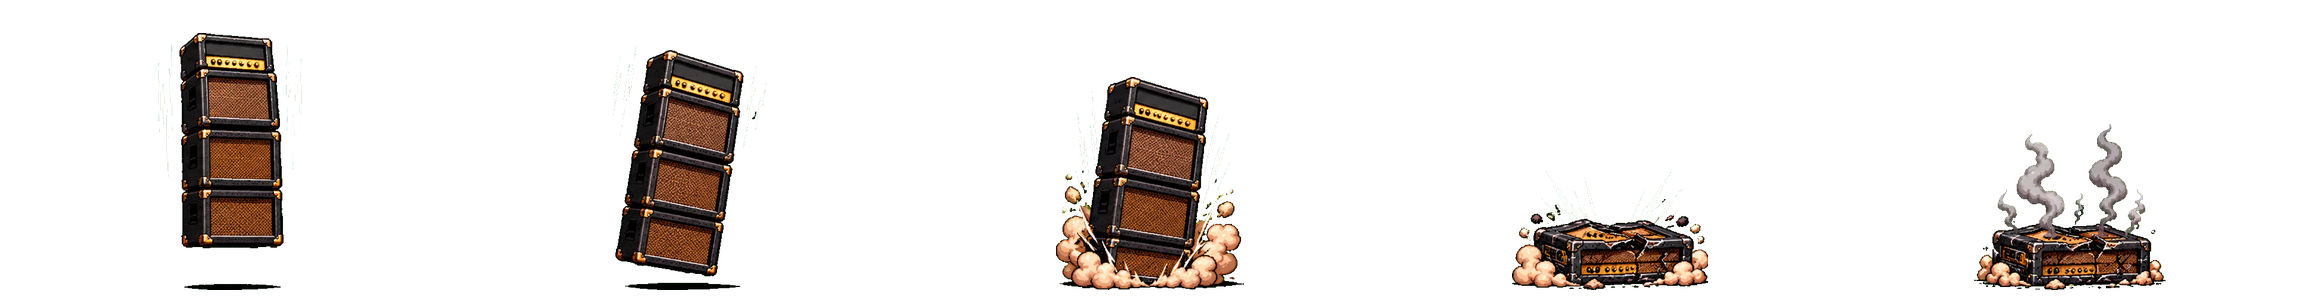
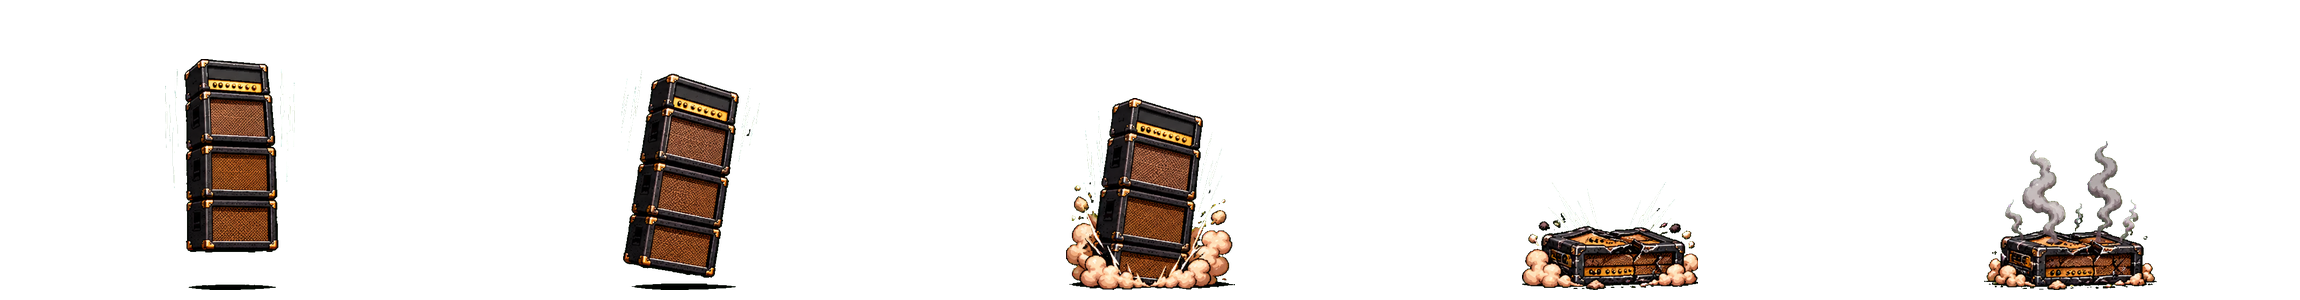
Zakk maior (cabeça 25% maior que a do Eddie) e proporcional em todas as poses

diff --git a/game.js b/game.js
@@ -5,6 +5,8 @@ const W = 960, H = 540, FLOOR = 472; // linha do piso do palco
 const FW = 460, FH = 300, AX = 220, AY = 290;
 // SC: tamanho dos lutadores em relação ao cenário; caixas de acerto, efeitos e pulo acompanham
 const SC = 0.8, px = v => Math.round(v * SC);
+// escala de um lutador (CHARS.<id>.size: o Zakk é ~31% maior); usada também nos efeitos e objetos que ele solta
+const scOf = f => SC * ((f && f.char && f.char.size) || 1);
 const BIG_T = 64; // quadros do título gigante do super (some antes do raio)
 const MIN_GAP = px(125), ROUND_TIME = 99, WALL = px(85);
 const JUMP_V = -15.2, GRAV = 0.85, JUMP_VX = 3.6;
@@ -373,7 +375,8 @@ CHARS.zakk = {
   name: 'ZAKK', dir: 'zakk', hp: 1100, walkF: 2.7, walkB: 2.25,
   anims: ZAKK_ANIMS, moves: ZAKK_MOVES, powers: ZAKK_POWERS, specials: ZAKK_SPECIALS, cpu: zakkCpu,
   jumpkick: JUMPKICK, bigTitle: 'NO MORE TEARS', bigSize: 95, blurb: 'Black Label',
-  stage: 'zakk', vicRate: 28, // a vitória do Zakk é uma sequência de poses (grito, cerveja, chifrinhos): ~0,5 s cada
+  stage: 'zakk', vicRate: 28, size: 1.31, // size: medido pelo rosto, a cabeça do Zakk fica 25% maior que a do Eddie (sem aumento ela tem ~95% da dele); vale para corpo, efeitos, caixa de dano e alcance
+  // a vitória do Zakk é uma sequência de poses (grito, cerveja, chifrinhos): ~0,5 s cada
 };
 for (const [id, c] of Object.entries(CHARS)) c.id = id;
 
@@ -386,17 +389,17 @@ const BIRA_HIT = { dmg: 30, hitstun: 50, blockstun: 50, push: 0, chip: 30, word:
 // PALCOS (escolhidos depois dos lutadores). Palco sem imagem não aparece na escolha.
 // Na vitória, qualquer palco dá lugar ao Templo dos Deuses da Guitarra (TEMPLE), com os holofotes no vencedor.
 const STAGES = [
-  { id: 'eddie',    name: "EDDIE'S STAGE",  tag: 'Arena rock',         file: 'assets/stages/palco-eddie.jpg?v=7ceb2c2' },
-  { id: 'slash',    name: 'SUNSET STRIP',   tag: 'Rock bar',           file: 'assets/stages/palco-slash.jpg?v=7ceb2c2' },
-  { id: 'stairway', name: 'STAIRWAY HILL',  tag: 'Airship at dusk',    file: 'assets/stages/cenario-dirigivel.jpg?v=7ceb2c2' },
-  { id: 'pig',      name: 'POWER STATION',  tag: 'Flying pig',         file: 'assets/stages/cenario-usina-porco.jpg?v=7ceb2c2' },
-  { id: 'rooftop',  name: 'LONDON ROOFTOP', tag: 'The last gig',       file: 'assets/stages/cenario-telhado-londres.jpg?v=7ceb2c2' },
-  { id: 'voltage',  name: 'HIGH VOLTAGE',   tag: 'Thunder road',       file: 'assets/stages/cenario-alta-voltagem.jpg?v=7ceb2c2' },
-  { id: 'stadium',  name: "STADIUM '85",    tag: 'Live for the world', file: 'assets/stages/cenario-estadio.jpg?v=7ceb2c2' },
+  { id: 'eddie',    name: "EDDIE'S STAGE",  tag: 'Arena rock',         file: 'assets/stages/palco-eddie.jpg?v=3f20983' },
+  { id: 'slash',    name: 'SUNSET STRIP',   tag: 'Rock bar',           file: 'assets/stages/palco-slash.jpg?v=3f20983' },
+  { id: 'stairway', name: 'STAIRWAY HILL',  tag: 'Airship at dusk',    file: 'assets/stages/cenario-dirigivel.jpg?v=3f20983' },
+  { id: 'pig',      name: 'POWER STATION',  tag: 'Flying pig',         file: 'assets/stages/cenario-usina-porco.jpg?v=3f20983' },
+  { id: 'rooftop',  name: 'LONDON ROOFTOP', tag: 'The last gig',       file: 'assets/stages/cenario-telhado-londres.jpg?v=3f20983' },
+  { id: 'voltage',  name: 'HIGH VOLTAGE',   tag: 'Thunder road',       file: 'assets/stages/cenario-alta-voltagem.jpg?v=3f20983' },
+  { id: 'stadium',  name: "STADIUM '85",    tag: 'Live for the world', file: 'assets/stages/cenario-estadio.jpg?v=3f20983' },
 ];
 const stageById = id => STAGES.find(st => st.id === id);
 // templo da vitória: imagem e posição (em 960x540) e cor dos holofotes do teto
-const TEMPLE = { file: 'assets/stages/templo-vitoria.jpg?v=7ceb2c2', lamps: [[106, 30, 0xffd27a], [184, 36, 0xffe9a8], [781, 36, 0xffe9a8], [845, 32, 0xffd27a]] };
+const TEMPLE = { file: 'assets/stages/templo-vitoria.jpg?v=3f20983', lamps: [[106, 30, 0xffd27a], [184, 36, 0xffe9a8], [781, 36, 0xffe9a8], [845, 32, 0xffd27a]] };
 
 // reações cômicas (folha react do lutador que apanhou): quadros e duração em quadros de jogo; quem está na piada fica invencível
 const GAGS = {
@@ -464,11 +467,13 @@ class Fighter {
   canBlock() { return this.free || this.state === 'block'; }
   hurtbox() {
     const hb = this.state === 'crouch' || (this.state === 'block' && this.holdDown) ? (this.char.hurtCrouch || HURT_CROUCH) : (this.char.hurt || HURT);
-    return { x: this.x + hb.x * SC, y: FLOOR + this.y + hb.y * SC, w: hb.w * SC, h: hb.h * SC };
+    const k = SC * (this.char.size || 1);
+    return { x: this.x + hb.x * k, y: FLOOR + this.y + hb.y * k, w: hb.w * k, h: hb.h * k };
   }
   boxFrom(h) {
-    const x = this.facing > 0 ? this.x + h.x * SC : this.x - (h.x + h.w) * SC;
-    return { x, y: FLOOR + this.y + h.y * SC, w: h.w * SC, h: h.h * SC };
+    const k = SC * (this.char.size || 1);
+    const x = this.facing > 0 ? this.x + h.x * k : this.x - (h.x + h.w) * k;
+    return { x, y: FLOOR + this.y + h.y * k, w: h.w * k, h: h.h * k };
   }
   moveStep() {
     const d = this.m.dur; let acc = 0;
@@ -519,10 +524,10 @@ class Boot extends Phaser.Scene {
     this.load.image('stage', STAGES[0].file); // fundo da tela de escolha
     this.load.image('temple', TEMPLE.file);
     // capa: logo dourado do Rock n' Bira e as canecas de chopp do brinde
-    this.load.image('logo_bira', `assets/ui/logo-rocknbira-gold.png?v=7ceb2c2`);
+    this.load.image('logo_bira', `assets/ui/logo-rocknbira-gold.png?v=3f20983`);
     this.load.image('title_bg', `assets/ui/festa.jpg`); // festa no bar, fundo da capa
-    this.load.spritesheet('mug', `assets/ui/mug.png?v=7ceb2c2`, { frameWidth: 300, frameHeight: 300 });
-    this.load.spritesheet('splash', `assets/ui/splash.png?v=7ceb2c2`, { frameWidth: 300, frameHeight: 300 });
+    this.load.spritesheet('mug', `assets/ui/mug.png?v=3f20983`, { frameWidth: 300, frameHeight: 300 });
+    this.load.spritesheet('splash', `assets/ui/splash.png?v=3f20983`, { frameWidth: 300, frameHeight: 300 });
     for (const st of STAGES) {
       this.load.image(`stage_${st.id}`, st.file);
     }
@@ -531,7 +536,7 @@ class Boot extends Phaser.Scene {
       for (const [n, count] of Object.entries(c.anims)) {
         const key = `${c.dir}_${n}`;
         FRAMES[key] = count;
-        this.load.spritesheet(key, `assets/${c.dir}/${n}.png?v=7ceb2c2`, { frameWidth: FW, frameHeight: FH });
+        this.load.spritesheet(key, `assets/${c.dir}/${n}.png?v=3f20983`, { frameWidth: FW, frameHeight: FH });
       }
     }
   }
@@ -915,7 +920,7 @@ class Select extends Phaser.Scene {
     [0, 1].forEach(s => {
       const c = CHARS[this.ids[this.cur[s]]];
       const key = texKey(this, c, 'idle');
-      if (this.big[s].texture.key !== key) this.big[s].setTexture(key);
+      if (this.big[s].texture.key !== key) this.big[s].setTexture(key).setScale(SC * 1.05 * (c.size || 1));
       this.big[s].setTint(s === 1 && sameLook ? P2_TINT : 0xffffff).setAlpha(this.lock[s] ? 1 : 0.75);
       this.names[s].setText(c.name); chrome(this.names[s]);
       this.names[s].setShadow(0, 0, s === 0 ? '#ff3d6e' : '#3cf0ff', 16, true, false);
@@ -1300,7 +1305,7 @@ class Fight extends Phaser.Scene {
     } else if (f.state === 'land') {
       if (f.t >= 5) { f.state = 'idle'; f.t = 0; f.facing = op.x >= f.x ? 1 : -1; }
     } else if (f.state === 'attack') {
-      const m = f.m;
+      const m = f.m, SC = scOf(f), px = v => Math.round(v * SC); // efeitos na escala de quem golpeia
       if (m.spawn !== undefined && !f.spawned && f.moveStep() >= m.spawn) { f.spawned = true; this.spawnProjectile(f); }
       if (m.bombs !== undefined && !f.spawned && f.moveStep() >= m.bombs) { f.spawned = true; this.spawnBombs(f, op); }
       const st = f.moveStep();
@@ -1361,16 +1366,16 @@ class Fight extends Phaser.Scene {
   separate(a, b) {
     if (a.state === 'ko' || b.state === 'ko' || a.y < -px(120) || b.y < -px(120)) return;
     if ([a, b].some(f => f.state === 'gag' && f.gag.k === 'flat')) return; // o carro passa por cima de quem virou panqueca
-    const d = b.x - a.x;
-    if (Math.abs(d) < MIN_GAP) {
-      const push = (MIN_GAP - Math.abs(d)) / 2 * (d >= 0 ? 1 : -1);
+    const d = b.x - a.x, G = MIN_GAP * ((a.char.size || 1) + (b.char.size || 1)) / 2; // lutador maior ocupa mais espaço
+    if (Math.abs(d) < G) {
+      const push = (G - Math.abs(d)) / 2 * (d >= 0 ? 1 : -1);
       a.x = Phaser.Math.Clamp(a.x - push, WALL, W - WALL);
       b.x = Phaser.Math.Clamp(b.x + push, WALL, W - WALL);
       // encurralado na parede: quem está livre leva o resto do empurrão, para nunca ficarem um dentro do outro
       const dir = d >= 0 ? 1 : -1;
-      if (Math.abs(b.x - a.x) < MIN_GAP) {
-        if (a.x <= WALL || a.x >= W - WALL) b.x = Phaser.Math.Clamp(a.x + dir * MIN_GAP, WALL, W - WALL);
-        else a.x = Phaser.Math.Clamp(b.x - dir * MIN_GAP, WALL, W - WALL);
+      if (Math.abs(b.x - a.x) < G) {
+        if (a.x <= WALL || a.x >= W - WALL) b.x = Phaser.Math.Clamp(a.x + dir * G, WALL, W - WALL);
+        else a.x = Phaser.Math.Clamp(b.x - dir * G, WALL, W - WALL);
       }
     }
   }
@@ -1412,7 +1417,7 @@ class Fight extends Phaser.Scene {
     def.hp -= m.dmg; def.move = null; def.jk = null;
     if (!(am && am.super)) { att.meter = Math.min(100, att.meter + m.dmg * 0.3); def.meter = Math.min(100, def.meter + m.dmg * 0.15); }
     const hitFx = am && am.hitFx ? this.tk(att.char, am.hitFx) : null;
-    if (hitFx && hitFx !== '__MISSING') this.addFx(am.hitFx, def.x, FLOOR + def.y - px(160), { rate: 2, scale: 0.8 * SC }, att.char);
+    if (hitFx && hitFx !== '__MISSING') this.addFx(am.hitFx, def.x, FLOOR + def.y - px(160), { rate: 2, scale: 0.8 * scOf(att) }, att.char);
     else this.spark(sx, sy, 0xffe14a, att.char);
     if (m.shake) this.cameras.main.shake(120, m.shake);
     if (m.dmg >= 75) this.addFx('fx_notes', def.x, FLOOR + def.y - px(250), { vy: -1.2, rate: 5, scale: 0.9 * SC }, att.char);
@@ -1432,6 +1437,7 @@ class Fight extends Phaser.Scene {
 
   // raio do super: textura do golpe (m.tex), núcleo branco e arcos elétricos desenhados por cima
   updateBeam(f, on) {
+    const SC = scOf(f), px = v => Math.round(v * SC); // efeitos na escala de quem soltou (o Zakk é maior)
     const g = this.beamG;
     if (!on) {
       if (f.beam) { f.beam.destroy(); f.beamGlow.destroy(); f.beam = f.beamGlow = null; g.clear(); }
@@ -1530,11 +1536,12 @@ class Fight extends Phaser.Scene {
 
   // PROJÉTIL (Eruption): anda reto; dois projéteis se anulam
   spawnProjectile(f) {
+    const SC = scOf(f), px = v => Math.round(v * SC); // efeitos na escala de quem soltou (o Zakk é maior)
     const m = f.m, x = f.x + f.facing * px(125), y = FLOOR - px(m.projY || 145);
     const spr = this.add.sprite(x, y, this.tk(f.char, m.tex || 'projectile'), 0).setDepth(20).setFlipX(f.facing < 0).setScale((m.projScale || 1.35) * SC);
     if (f.tint !== 0xffffff) spr.setTint(f.tint);
     const sp = m.speed || [5, 8];
-    const pr = { owner: f, x, y, dir: f.facing, v: f.projFast ? sp[1] : sp[0], spr, t: 0, payload: m.payload || PROJ, boomerang: !!m.boomerang, box: m.projBox || [72, 48] };
+    const pr = { owner: f, x, y, dir: f.facing, v: f.projFast ? sp[1] : sp[0], spr, t: 0, payload: m.payload || PROJ, boomerang: !!m.boomerang, box: (m.projBox || [72, 48]).map(v => v * SC / 0.8) };
     if (pr.boomerang) { pr.v0 = pr.v; pr.acc = -pr.v / 150; } // vai longe, freia e volta para a mão
     f.proj = pr; this.projs.push(pr);
   }
@@ -1560,6 +1567,7 @@ class Fight extends Phaser.Scene {
 
   // ENXAME (Bumblebee): saem da guitarra e perseguem o oponente
   spawnSwarm(f) {
+    const SC = scOf(f), px = v => Math.round(v * SC); // efeitos na escala de quem soltou (o Zakk é maior)
     const m = f.m, n = m.count || 6, key = this.tk(f.char, m.tex || 'fx_bee');
     for (let i = 0; i < n; i++) {
       const x = f.x + f.facing * px(m.ground ? 90 + i * 35 : 110), y = m.ground ? FLOOR - px(22) : FLOOR - px(170) + (i - (n - 1) / 2) * 12;
@@ -1621,6 +1629,7 @@ class Fight extends Phaser.Scene {
 
   // AJUDANTE (Jump!): cai do céu onde o oponente está; sombra no chão avisa. Folha: 0-1 caindo, 2 impacto, 3 pose, 4 saindo.
   spawnDLR(f, op) {
+    const SC = scOf(f), px = v => Math.round(v * SC); // efeitos na escala de quem soltou (o Zakk é maior)
     const m = f.m, x = Phaser.Math.Clamp(op.x, 90, W - 90);
     const spr = this.add.sprite(x, FLOOR - 560, this.tk(f.char, m.tex || 'dlr'), 0).setDepth(22).setFlipX(f.facing < 0).setScale(SC)
       .setOrigin((f.facing > 0 ? AX : FW - AX) / FW, AY / FH);
@@ -1661,6 +1670,7 @@ class Fight extends Phaser.Scene {
   // DESLIZANDO (You Could Be Mine): o ajudante entra pela borda de trás e cruza a tela rente ao chão.
   // Folha: 0 correndo, 1 se jogando, 2-3 deslizando, 4 pose no fim. Golpe baixo (só defende agachado).
   spawnSlider(f) {
+    const SC = scOf(f), px = v => Math.round(v * SC); // efeitos na escala de quem soltou (o Zakk é maior)
     const m = f.m, dir = f.facing, x = dir > 0 ? -60 : W + 60;
     const spr = this.add.sprite(x, FLOOR, this.tk(f.char, m.tex || 'axl'), 0).setDepth(22).setFlipX(dir < 0).setScale(SC)
       .setOrigin((dir > 0 ? AX : FW - AX) / FW, AY / FH);
@@ -1777,11 +1787,11 @@ class Fight extends Phaser.Scene {
 
   // CHUVA DO CÉU (Dive Bomb): caem miradas onde o oponente estava e só explodem no chão
   spawnBombs(f, op) {
-    const m = f.m, target = op.x, key = this.tk(f.char, m.tex || 'bomb');
+    const k = scOf(f) / SC, m = f.m, target = op.x, key = this.tk(f.char, m.tex || 'bomb');
     (m.offsets || [-70, 0, 70]).forEach((off, i) => {
       const x = Phaser.Math.Clamp(target + off * f.facing, 40, W - 40);
-      const spr = this.add.sprite(x, -60, key, 0).setDepth(25).setScale(m.bombScale || 1.6).setVisible(false).setFlipX(f.facing < 0);
-      this.bombList.push({ owner: f, x, y: m.crash ? -260 : -60, vy: 5, delay: i * 12, spr, t: 0, n: m.crash ? m.crash : this.nf(key), payload: m.payload || BOMB, landY: m.landY || 25, crash: m.crash, key });
+      const spr = this.add.sprite(x, -60, key, 0).setDepth(25).setScale((m.bombScale || 1.6) * k).setVisible(false).setFlipX(f.facing < 0);
+      this.bombList.push({ owner: f, x, y: m.crash ? -260 : -60, vy: 5, delay: i * 12, spr, t: 0, n: m.crash ? m.crash : this.nf(key), payload: m.payload || BOMB, landY: (m.landY || 25) * k, crash: m.crash, key });
       f.bombs++;
     });
   }
@@ -1982,8 +1992,9 @@ class Fight extends Phaser.Scene {
       const oy = f.spin ? 0.55 : AY / FH;
       f.spr.setFlipX(f.facing < 0).setOrigin((f.facing > 0 ? AX : FW - AX) / FW, oy).setRotation(f.spin ? f.rot : 0);
       const sw = 1 + f.stings * 0.06;
-      const lift = f.spin ? -(AY - 0.55 * FH) * SC * sw : 0, jit = f.buzz > 0 ? (Math.random() * 10 - 5) : 0;
-      f.spr.setScale(sw * SC);
+      const sz = sw * SC * (f.char.size || 1);
+      const lift = f.spin ? -(AY - 0.55 * FH) * sz : 0, jit = f.buzz > 0 ? (Math.random() * 10 - 5) : 0;
+      f.spr.setScale(sz);
       f.spr.x = Math.round(f.x + jit); f.spr.y = Math.round(FLOOR + f.y + lift);
       f.shadow.x = f.x; f.shadow.setScale(Math.max(0.4, 1 + f.y / 240));
     }

diff --git a/index.html b/index.html
@@ -152,5 +152,5 @@ kbd{font-family:var(--px);font-size:10px;background:#2a1a3a;border:1px solid #4a
 })();
 </script>
 <script src="https://cdnjs.cloudflare.com/ajax/libs/phaser/3.80.1/phaser.min.js"></script>
-<script src="game.js?v=7ceb2c2"></script>
+<script src="game.js?v=3f20983"></script>
 </html>
